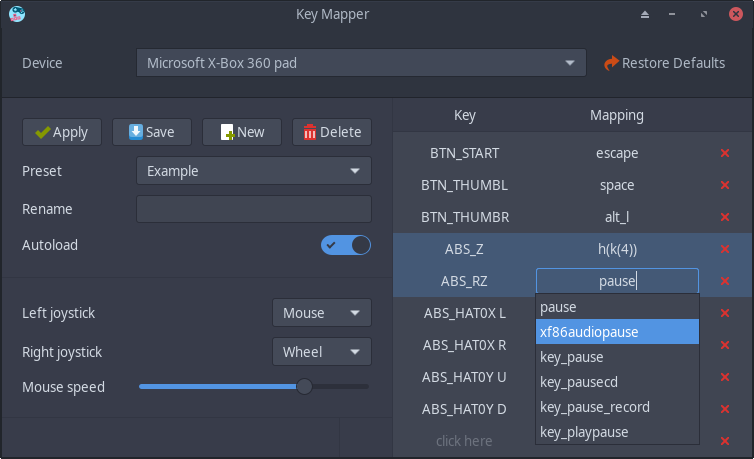
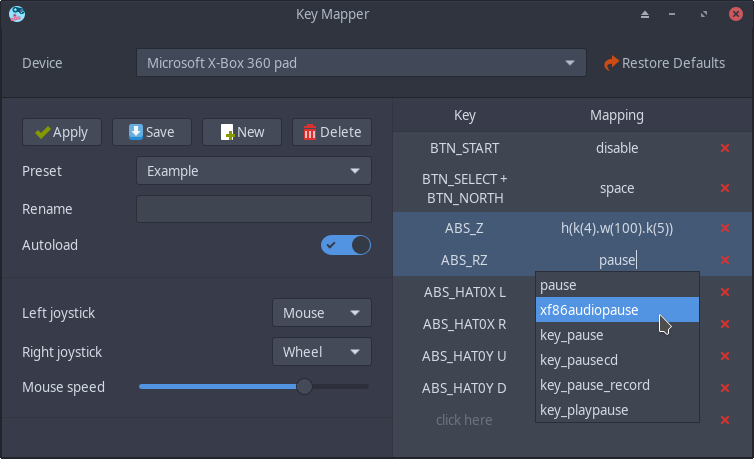
update readme

diff --git a/readme/development.md b/readme/development.md
@@ -26,11 +26,11 @@ requests.
 - [x] support for non-GUI TTY environments with a command to stop and start
 - [x] start the daemon in such a way to not require usermod
 - [x] mapping a combined button press to a key
+- [x] add "disable" as mapping option
 - [ ] mapping joystick directions as buttons, making it act like a D-Pad
 - [ ] automatically load presets when devices get plugged in after login (udev)
 - [ ] configure locale for preset to provide a different set of possible keys
 - [ ] user-friendly way to map btn_left
-- [ ] add "disable" as mapping option
 
 ## Tests
 

diff --git a/README.md b/README.md
@@ -4,7 +4,7 @@
 
 <p align="center">
   A tool to change the mapping of your input device buttons.<br/>
-  Supports mice, keyboards, gamepads, X11, Wayland and programmable macros.
+  Supports mice, keyboards, gamepads, X11, Wayland, combined buttons and programmable macros.
 </p>
 
 <p align="center"><a href="readme/usage.md">Usage</a> - <a href="#installation">Installation</a> - <a href="readme/development.md">Development</a> - <a href="#screenshots">Screenshots</a></p>
